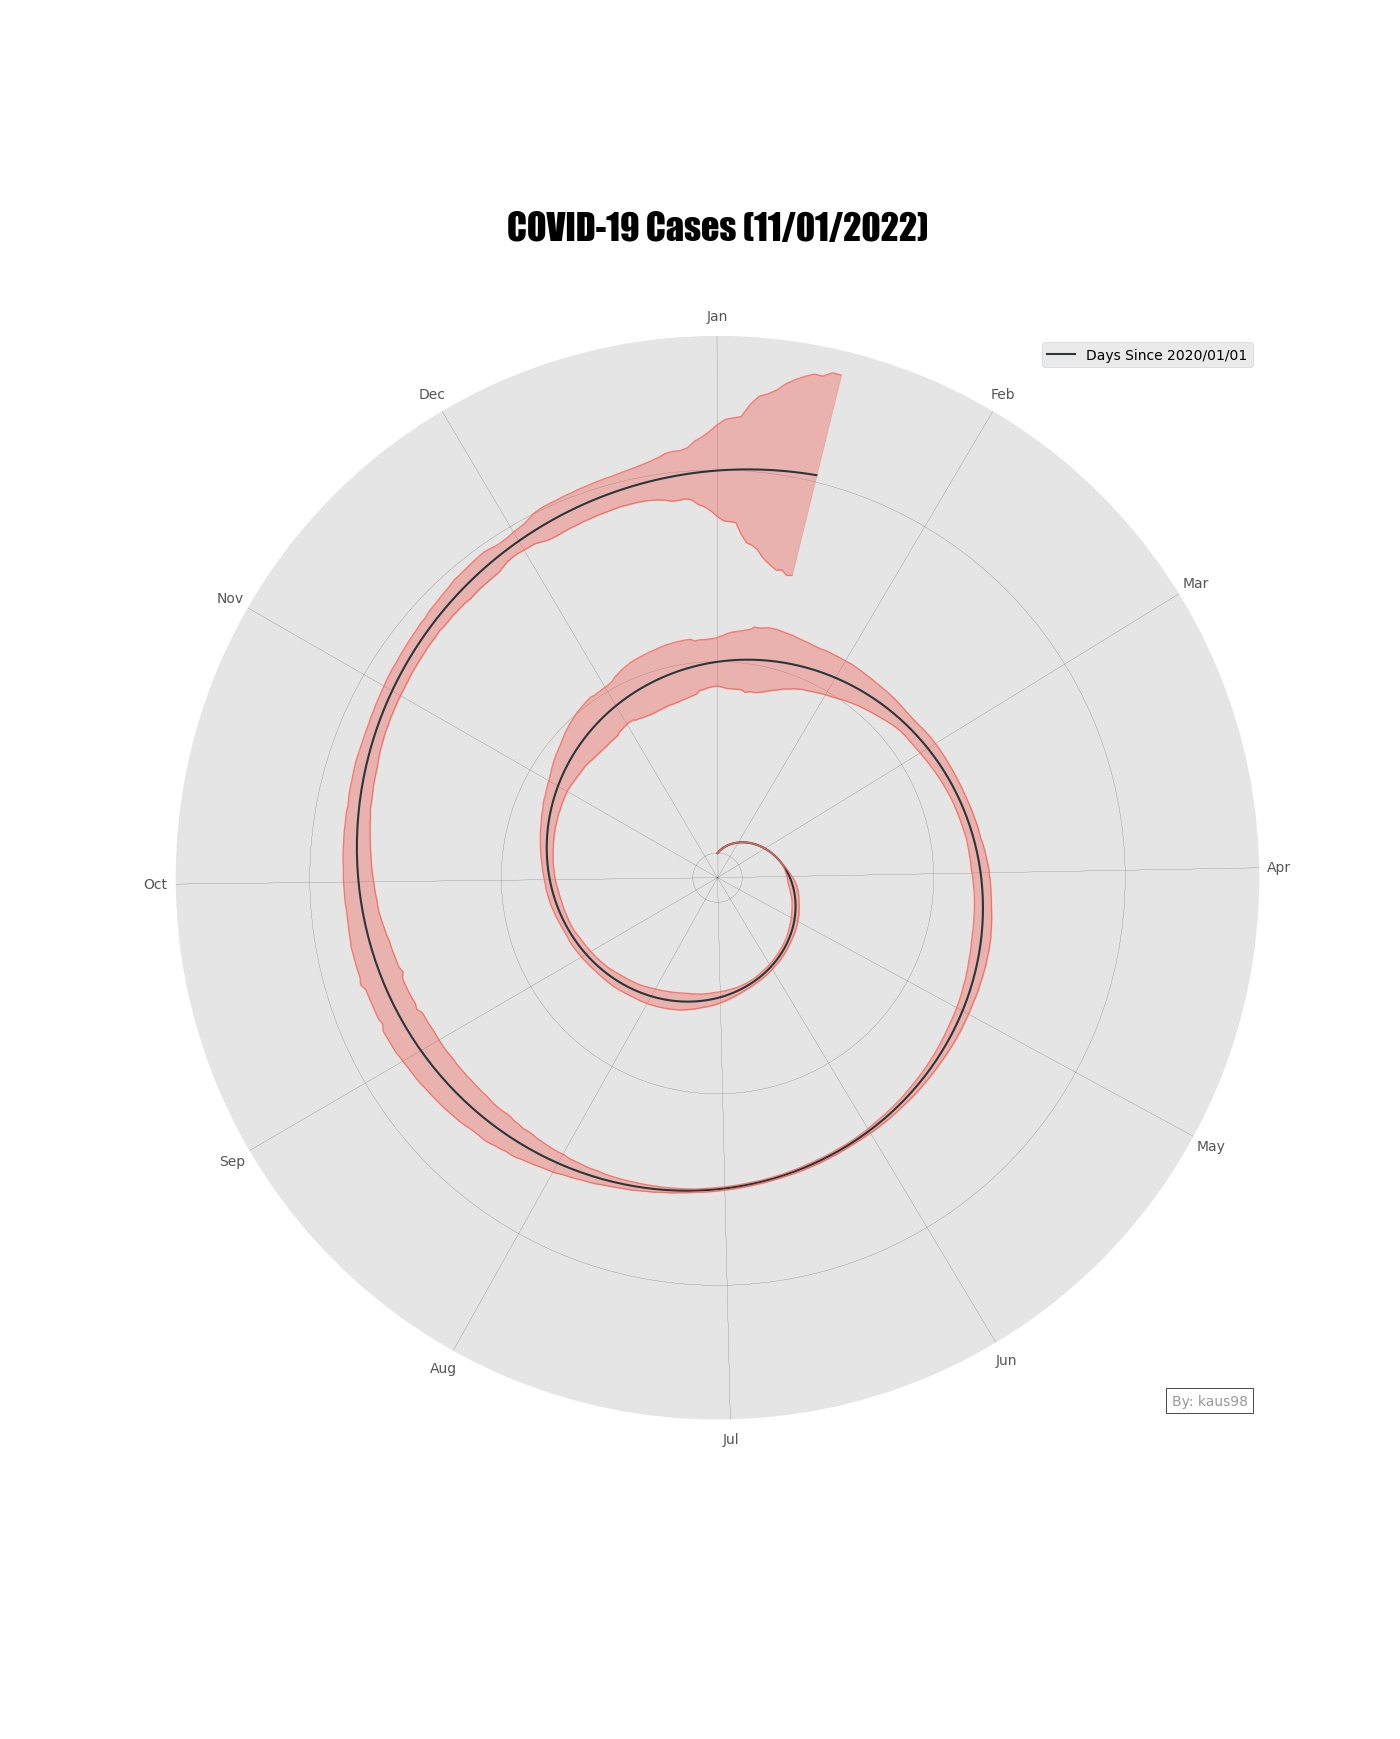
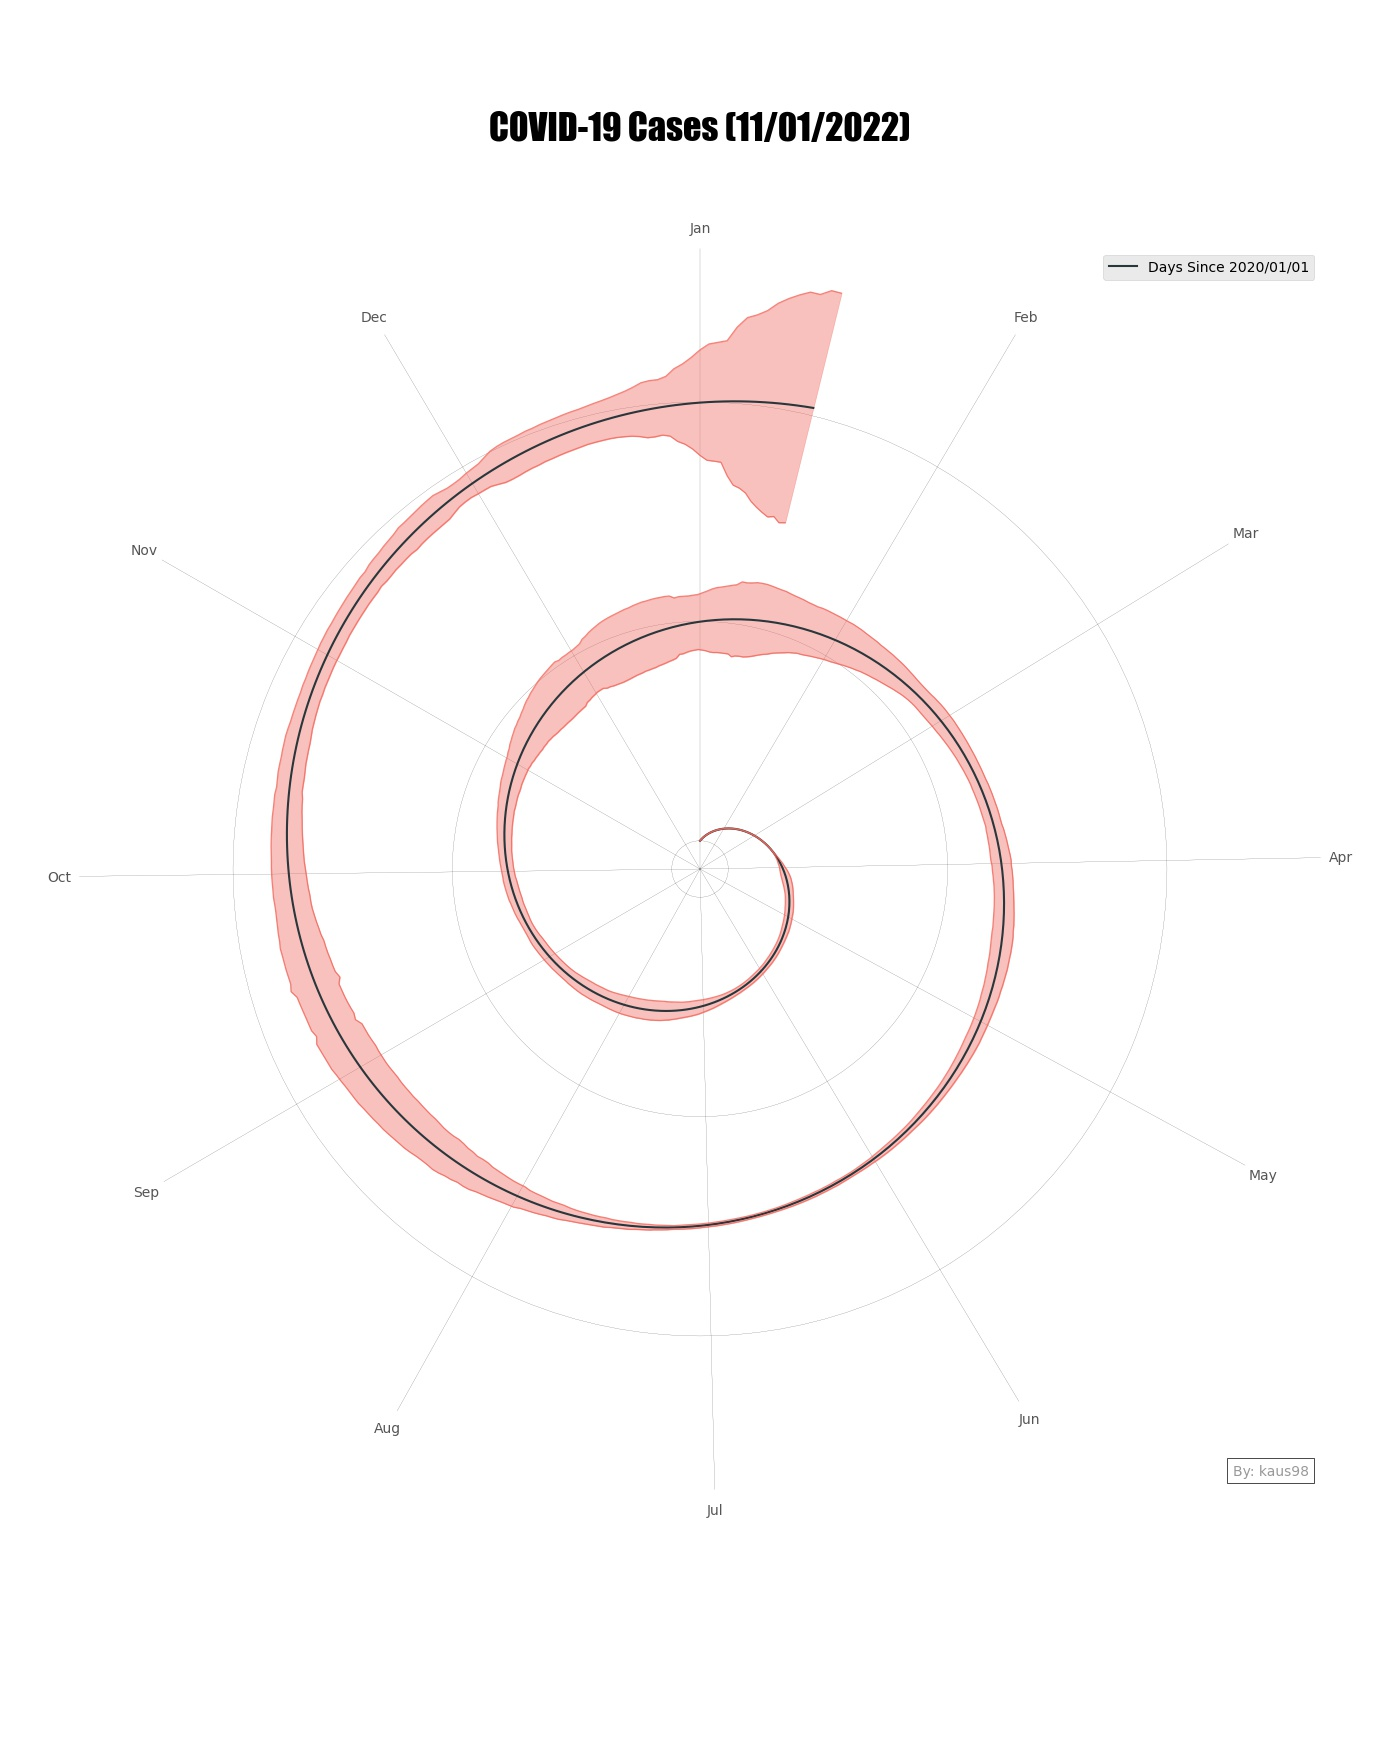
added styles

diff --git a/core/graphs.py b/core/graphs.py
@@ -4,7 +4,6 @@ import os, json
 import matplotlib.pyplot as plt
 from matplotlib.pyplot import text
 plt.style.use("ggplot")
-
 import matplotlib.cm as cm 
 from matplotlib.offsetbox import AnchoredText
 
@@ -18,7 +17,7 @@ def get_graph_base(max_n: int,
     
     fig = plt.figure(figsize=(14,17.4), facecolor='white') 
     ax = fig.add_subplot(111, polar=True)
-    
+    ax.set_facecolor('white')
     ax.set_theta_direction(-1) # Make Graph go Clockwise 
     ax.set_theta_offset(np.pi/2.0) # Add Offset of 90 Deg
     ax.set_xticks(np.deg2rad(months/months.max()*360).values) 
@@ -53,6 +52,7 @@ def spiral_graph_with_fill(dfs: list,
         ax.fill_between(angles, radius-cases_factor, radius+cases_factor, alpha = 0.4, color = color, label = f"New COVID-19 Cases\n{cc}")
         ax.plot(angles, radius-cases_factor, color = color, alpha = 0.8, linewidth = "0.9")
         ax.plot(angles, radius+cases_factor, color = color, alpha = 0.8, linewidth = "0.9")
+    plt.tight_layout(pad=3.4)
     
     return fig
 
